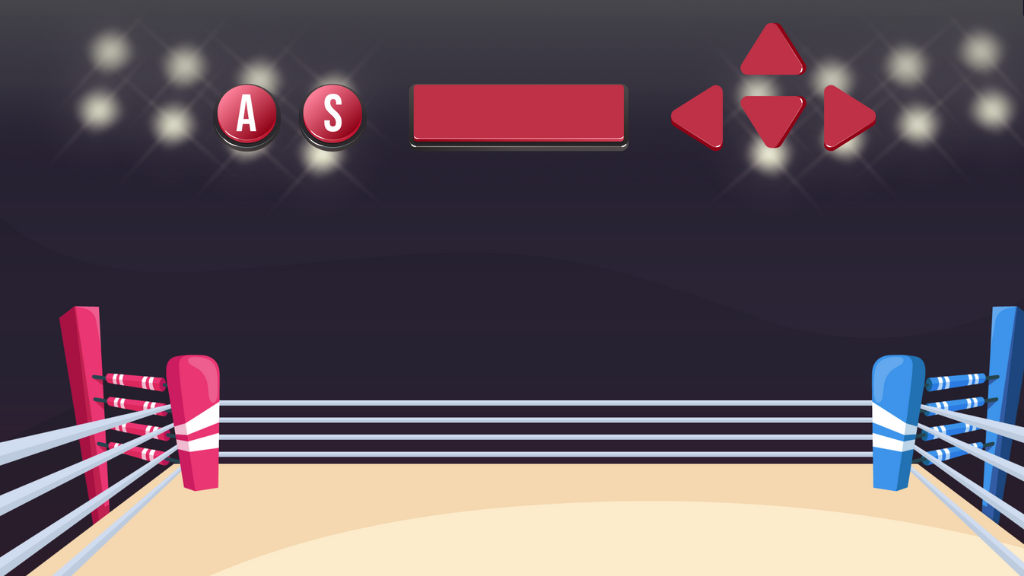
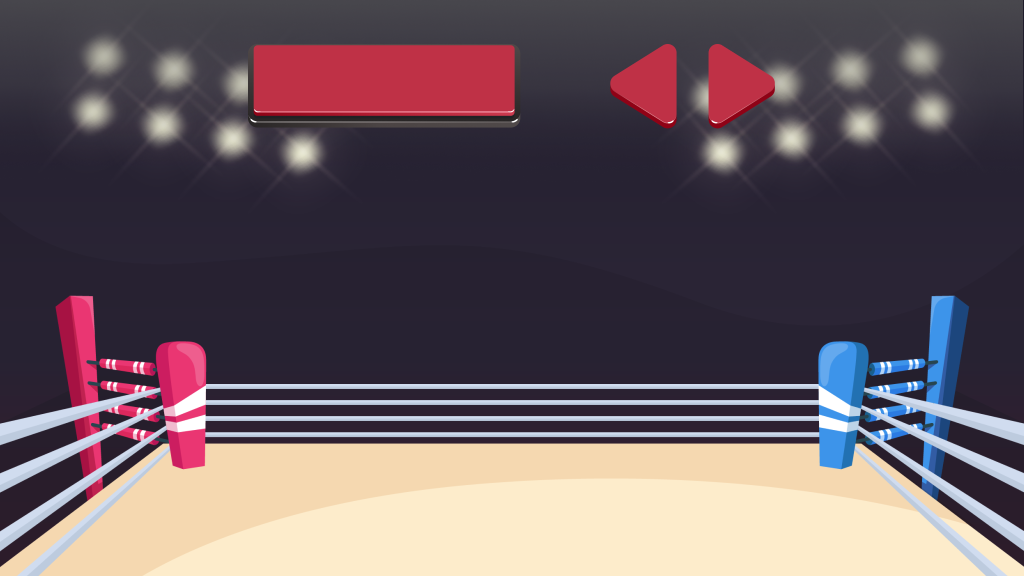
remove character movements and controls

Changed region(s): [[0.0, 0.5, 1.0, 1.0], [0.0625, 0.0312, 1.0, 0.3125]]

diff --git a/website/index.js b/website/index.js
@@ -411,23 +411,24 @@ window.addEventListener('keydown', (event) => {
                 keys.a.pressed = true;
                 player.lastKey = 'ArrowLeft';
                 break;
-            case 'ArrowUp':
-                player.velocity.y = -20;
-                break;
-            case 'A':
-                player.attack();
-                break;
-            case 'a':
-                player.attack();
-                break;
-            case 'S':
-                player.attack2();
-                break;
-            case 's':
-                player.attack2();
-                break;
+            // Remove some actions
+            // case 'ArrowUp':
+            //     player.velocity.y = -20;
+            //     break;
+            // case 'A':
+            //     player.attack();
+            //     break;
+            // case 'a':
+            //     player.attack();
+            //     break;
+            // case 'S':
+            //     player.attack2();
+            //     break;
+            // case 's':
+            //     player.attack2();
+            //     break;
             case ' ':
-                player.block();
+                player.attack()
                 break;
         }
     }
